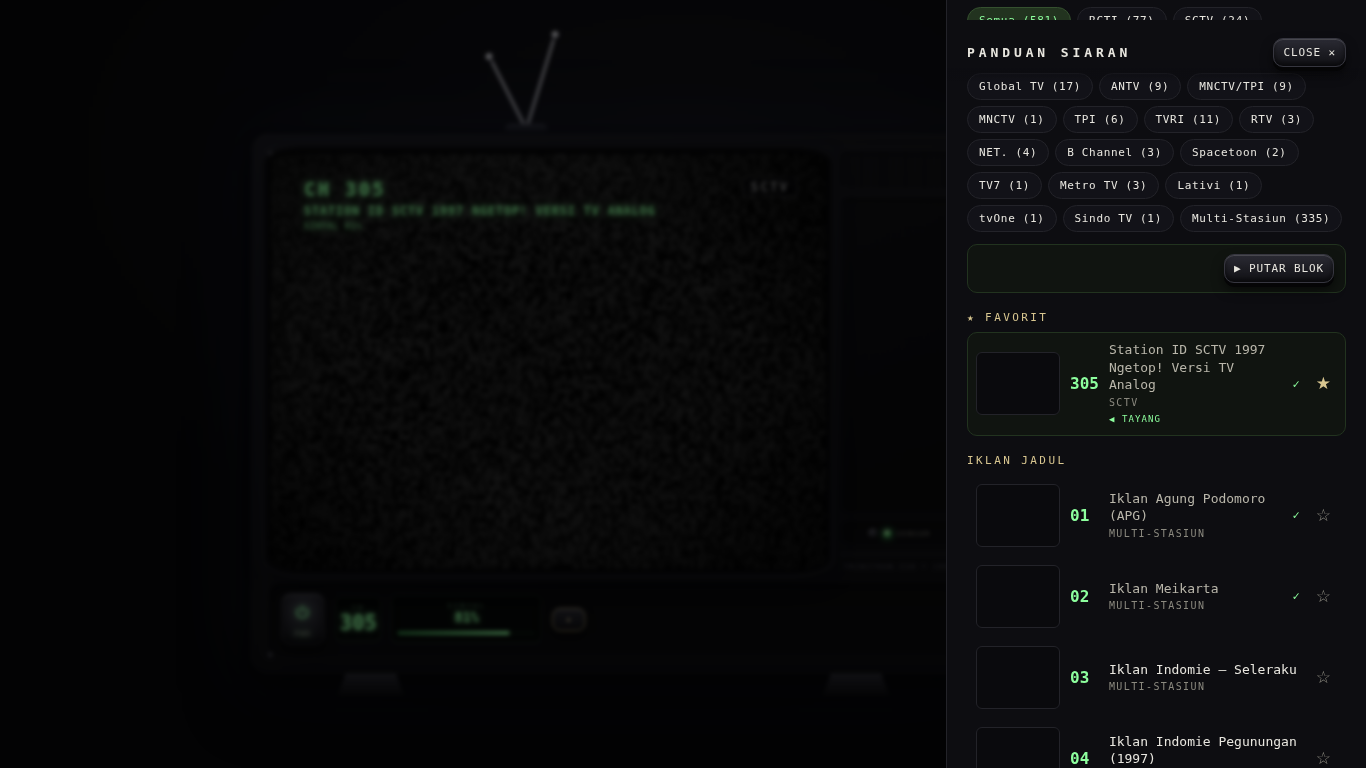
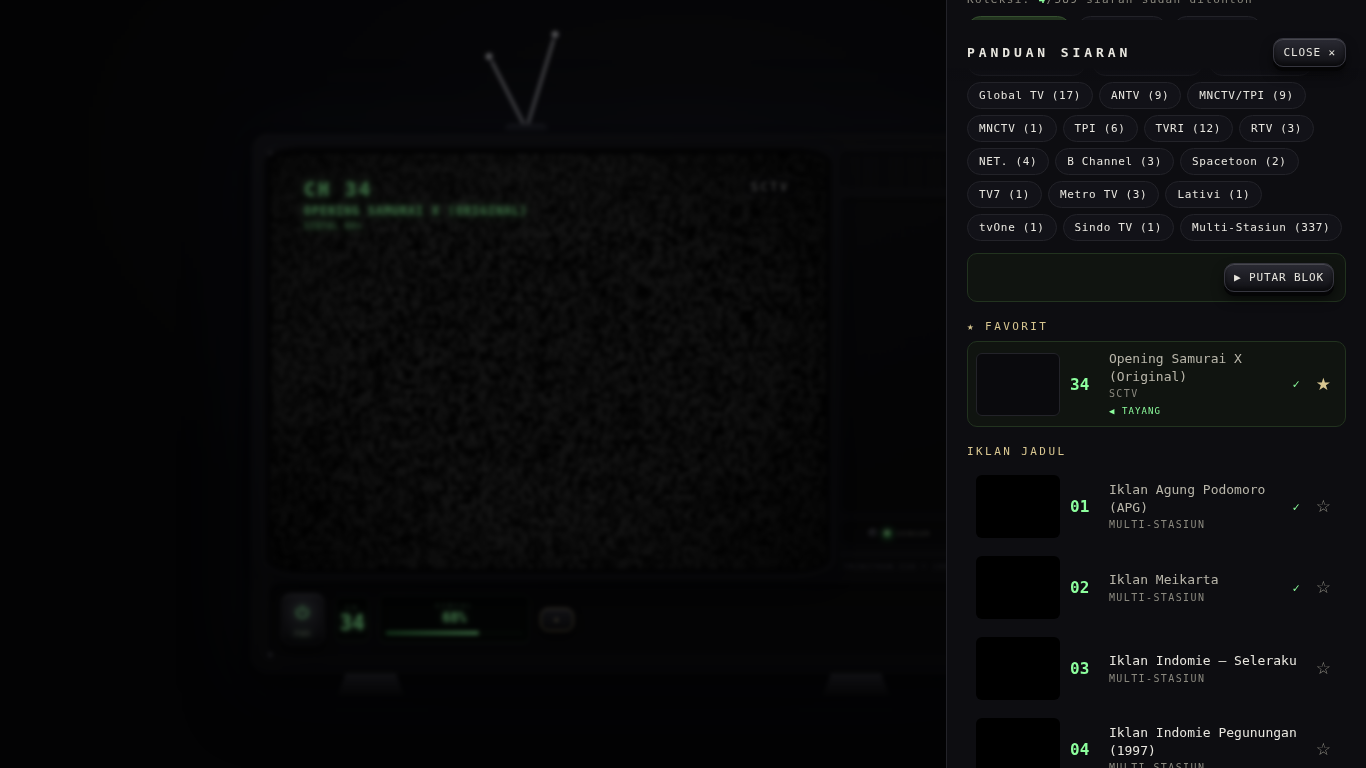
audit siklus 228: batch YT variety +1 Extravaganza (katalog 590)

diff --git a/assets/js/channels.js b/assets/js/channels.js
@@ -613,4 +613,5 @@ const CHANNELS = [
   { id: "Qp-h4r9ID8Q", title: "PERGANTIAN ACARA SELANJUTNYA (SEPTEMBER 1995) DI SCTV", cat: "Jingle & Ident", st: "SCTV" },
   { id: "XZgN3THGHsc", title: "opening Jelita Indosiar 1998", cat: "Sinetron & Acara TV", st: "Indosiar" },
   { id: "_Rs3a7PTj_M", title: "Jeda Iklan Indosiar edisi 12 Januari 1995 (feat. Iklan Kapal Api tahun 1994)", cat: "Iklan Jadul", st: "Indosiar" },
+  { id: "Xw7YMSC9EY0", title: "Opening Extravaganza Trans TV (2006)", cat: "Sinetron & Acara TV", st: "Trans TV" },
 ];

diff --git a/AUDIT_LOG.md b/AUDIT_LOG.md
@@ -3145,3 +3145,41 @@ Semua commit lokal; tidak ada push/deploy.
 **Total siklus tercatat: 224**
 
 ---
+
+## Siklus 225 — 2026-10-11 06:20 WIB — Batch YouTube jingle/ident: +5 entri (584→589)
+
+- **Area:** Katalog (jingle & ident stasiun).
+- **Metode:** web search -> 8 kandidat -> oEmbed (5 OK baru, 2 DUP, 1 shorts SKIP).
+- **Hasil:** 5 YA (Kratingdaeng Jingle 2002 x2, Bumper SCTV 1995,
+  Opening Jelita Indosiar 1998, Jeda Indosiar 1995 hari pertama).
+- **Test:** append -> 589 unik; smoke 18/18 PASS (dari 221).
+- **Commit:** lokal.
+- **Next:** Regression (5 siklus).
+
+**Total siklus tercatat: 225**
+
+---
+
+## Siklus 226 — 2026-10-11 06:21 WIB — Regression pass siklus 222–226
+
+- **Area:** Test suite (katalog +7).
+- **Hasil:** smoke 18/18, remote-click 18/18, hold-repeat 3/3, guide-chunk 7/7.
+  46/46 hijau.
+- **Test:** Semua dijalankan nyata.
+- **Next:** Lanjut.
+
+**Total siklus tercatat: 226**
+
+---
+
+## Siklus 227 — 2026-10-11 06:21 WIB — Spot check kualitas katalog: 20/20 OK
+
+- **Area:** Kualitas data (validitas 589 entri).
+- **Metode:** 20 ID YouTube acak -> oEmbed.
+- **Hasil:** 20 OK, 0 FAIL. Katalog sehat.
+- **Test:** Spot check nyata.
+- **Next:** Lanjut.
+
+**Total siklus tercatat: 227**
+
+---
